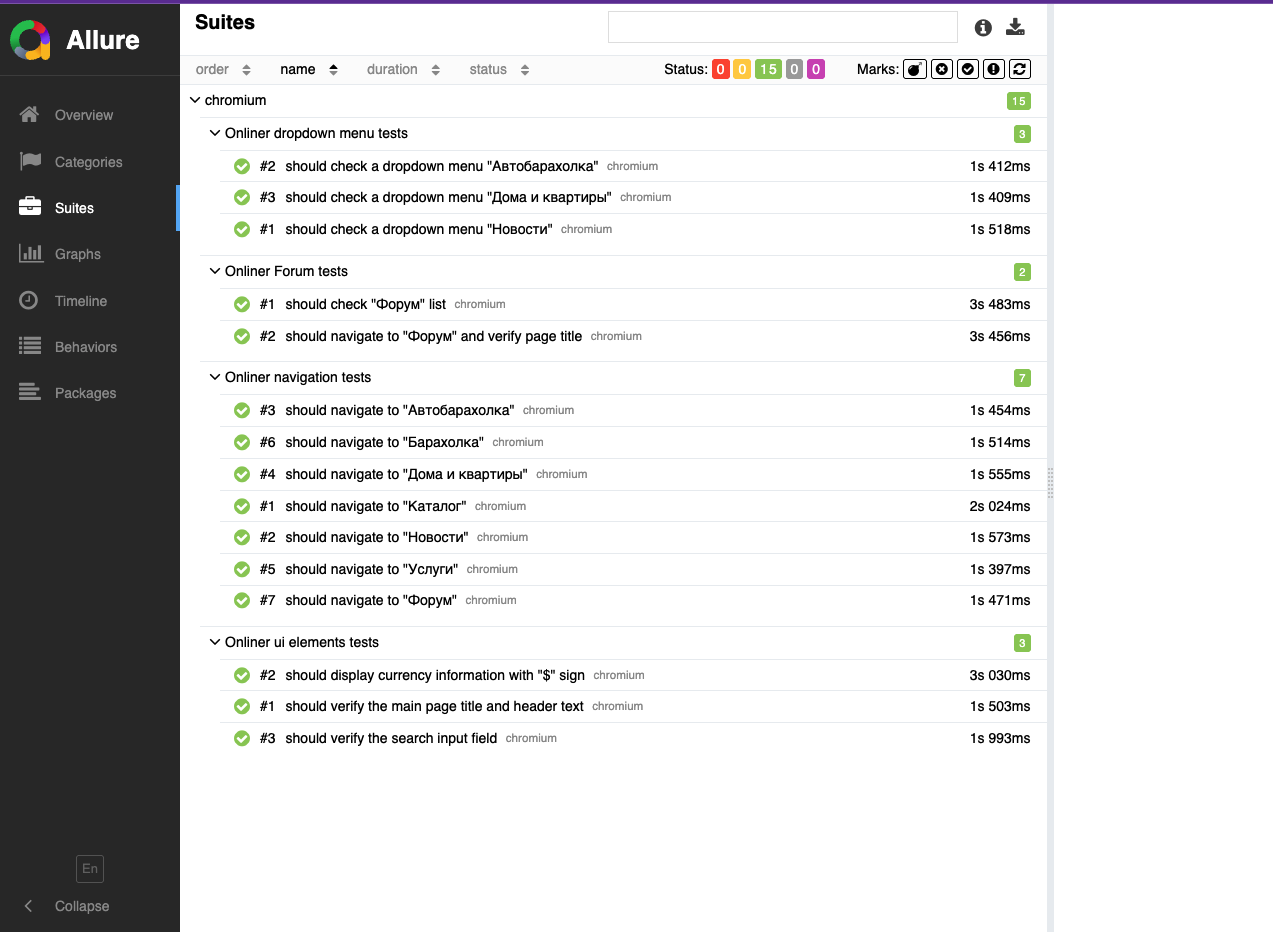
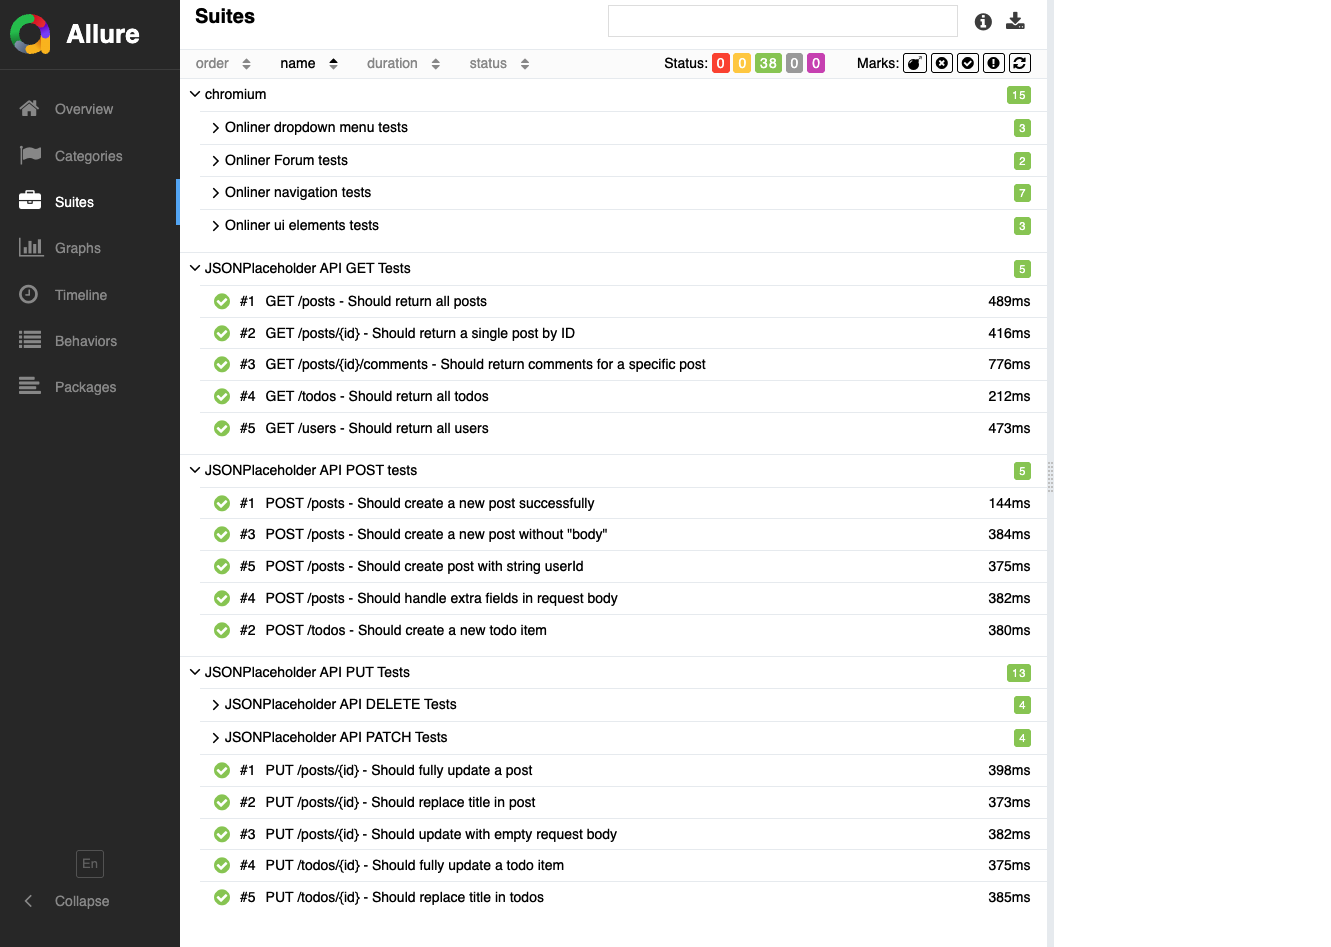
added all

diff --git a/jest.config.js b/jest.config.js
@@ -5,8 +5,12 @@ const tsJestTransformCfg = createDefaultPreset().transform;
 /** @type {import("jest").Config} **/
 module.exports = {
   preset: 'ts-jest',
-  testEnvironment: "node",
-  preset: 'ts-jest',
+  testEnvironment: "allure-jest/node",
+  testEnvironmentOptions: {
+    allure: {
+      resultsDir: './allure-results'
+    }
+  },
   testMatch: ['**/tests/**/*.test.ts', '**/src/**/*.test.ts'],
   moduleFileExtensions: ['ts', 'tsx', 'js', 'jsx', 'json', 'node']
 };

diff --git a/tests/api/jsonplaceholder.test.ts b/tests/api/jsonplaceholder.test.ts
@@ -6,7 +6,6 @@ import {
     negativeId, postWithExtraField, partialTitle,
     partialBody, patchTodoData
 } from '../../fixtures/jsonplaceholderData';
-import superagent from 'superagent';
 
 let createdPostId: number;
 let createdTodoId: number;

diff --git a/README.md b/README.md
@@ -10,7 +10,6 @@
 ![Allure](https://img.shields.io/badge/Report-Allure-blue)  
 
 Этот проект содержит автотесты, разработанные с использованием:
-
 **Playwright (TS)** для проверки функциональности интернет-портала [Интернет-портал Onliner](https://www.onliner.by/), **Jest + superAgent(TS)** для тестирования интернет-страницы [Интернет-страница](https://jsonplaceholder.typicode.com/) и **Jest** для проверки функциональности класса 'Регистрационная форма'
 
 ---
